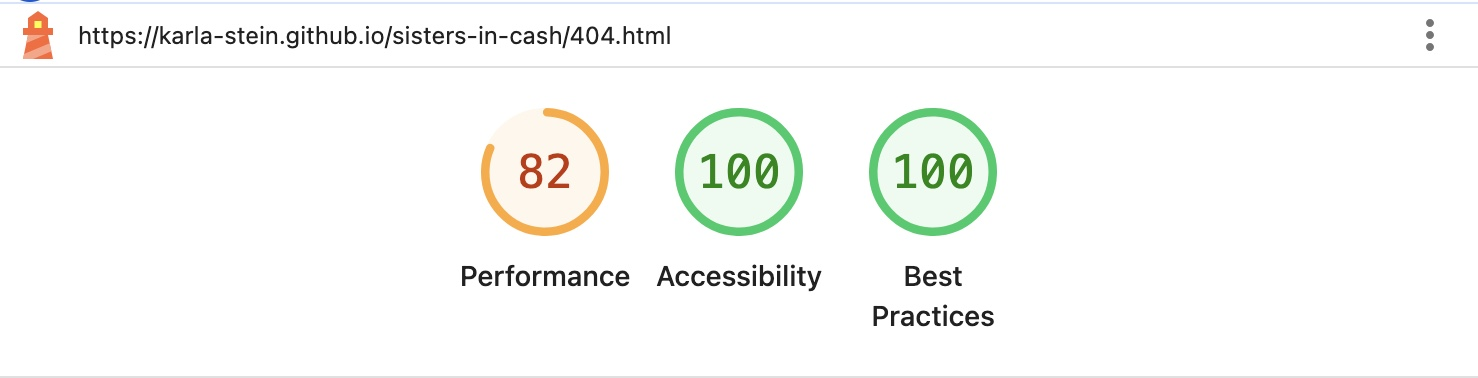
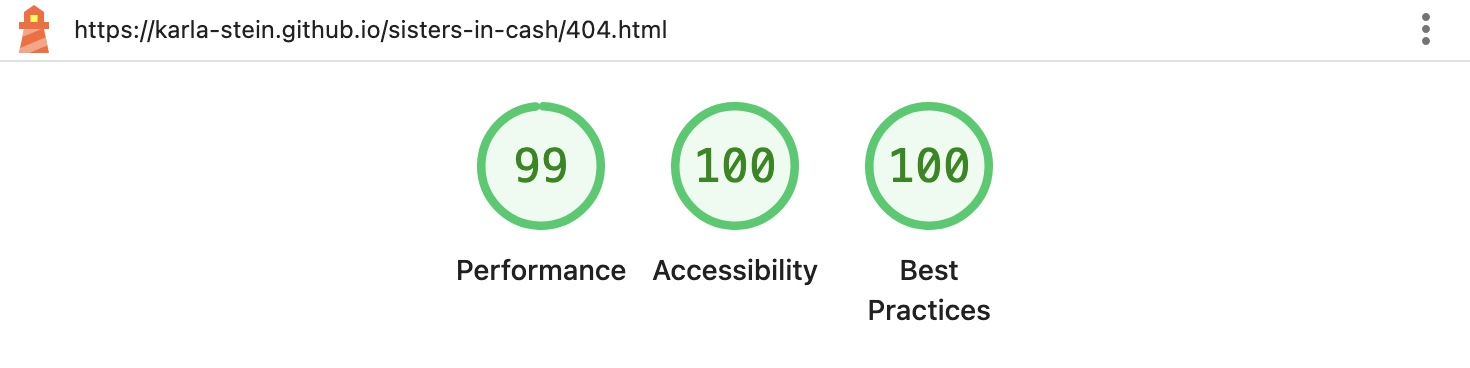
Complete Lighthouse audit section in README

diff --git a/TESTING.md b/TESTING.md
@@ -71,7 +71,7 @@ I've tested my deployed project using the Lighthouse Audit tool to check for any
 
 | Page | Mobile | Desktop |
 | --- | --- | --- |
-| Home | ![screenshot](documentation/lighthouse/) | ![screenshot](documentation/lighthouse/index-desktop.jpeg) |
+| Home | ![screenshot](documentation/lighthouse/index-mobile.jpeg) | ![screenshot](documentation/lighthouse/index-desktop.jpeg) |
 | All Episodes| ![screenshot](documentation/lighthouse/all-episodes-mobile.jpeg) | ![screenshot](documentation/lighthouse/all-episodes-desktop.jpeg) |
 | Sponsoring | ![screenshot](documentation/lighthouse/sponsor-mobile.jpeg) | ![screenshot](documentation/lighthouse/sponsor-desktop.jpeg) |
 | Success | ![screenshot](documentation/lighthouse/success-mobile.jpeg) | ![screenshot](documentation/lighthouse/success-desktop.jpeg) |
